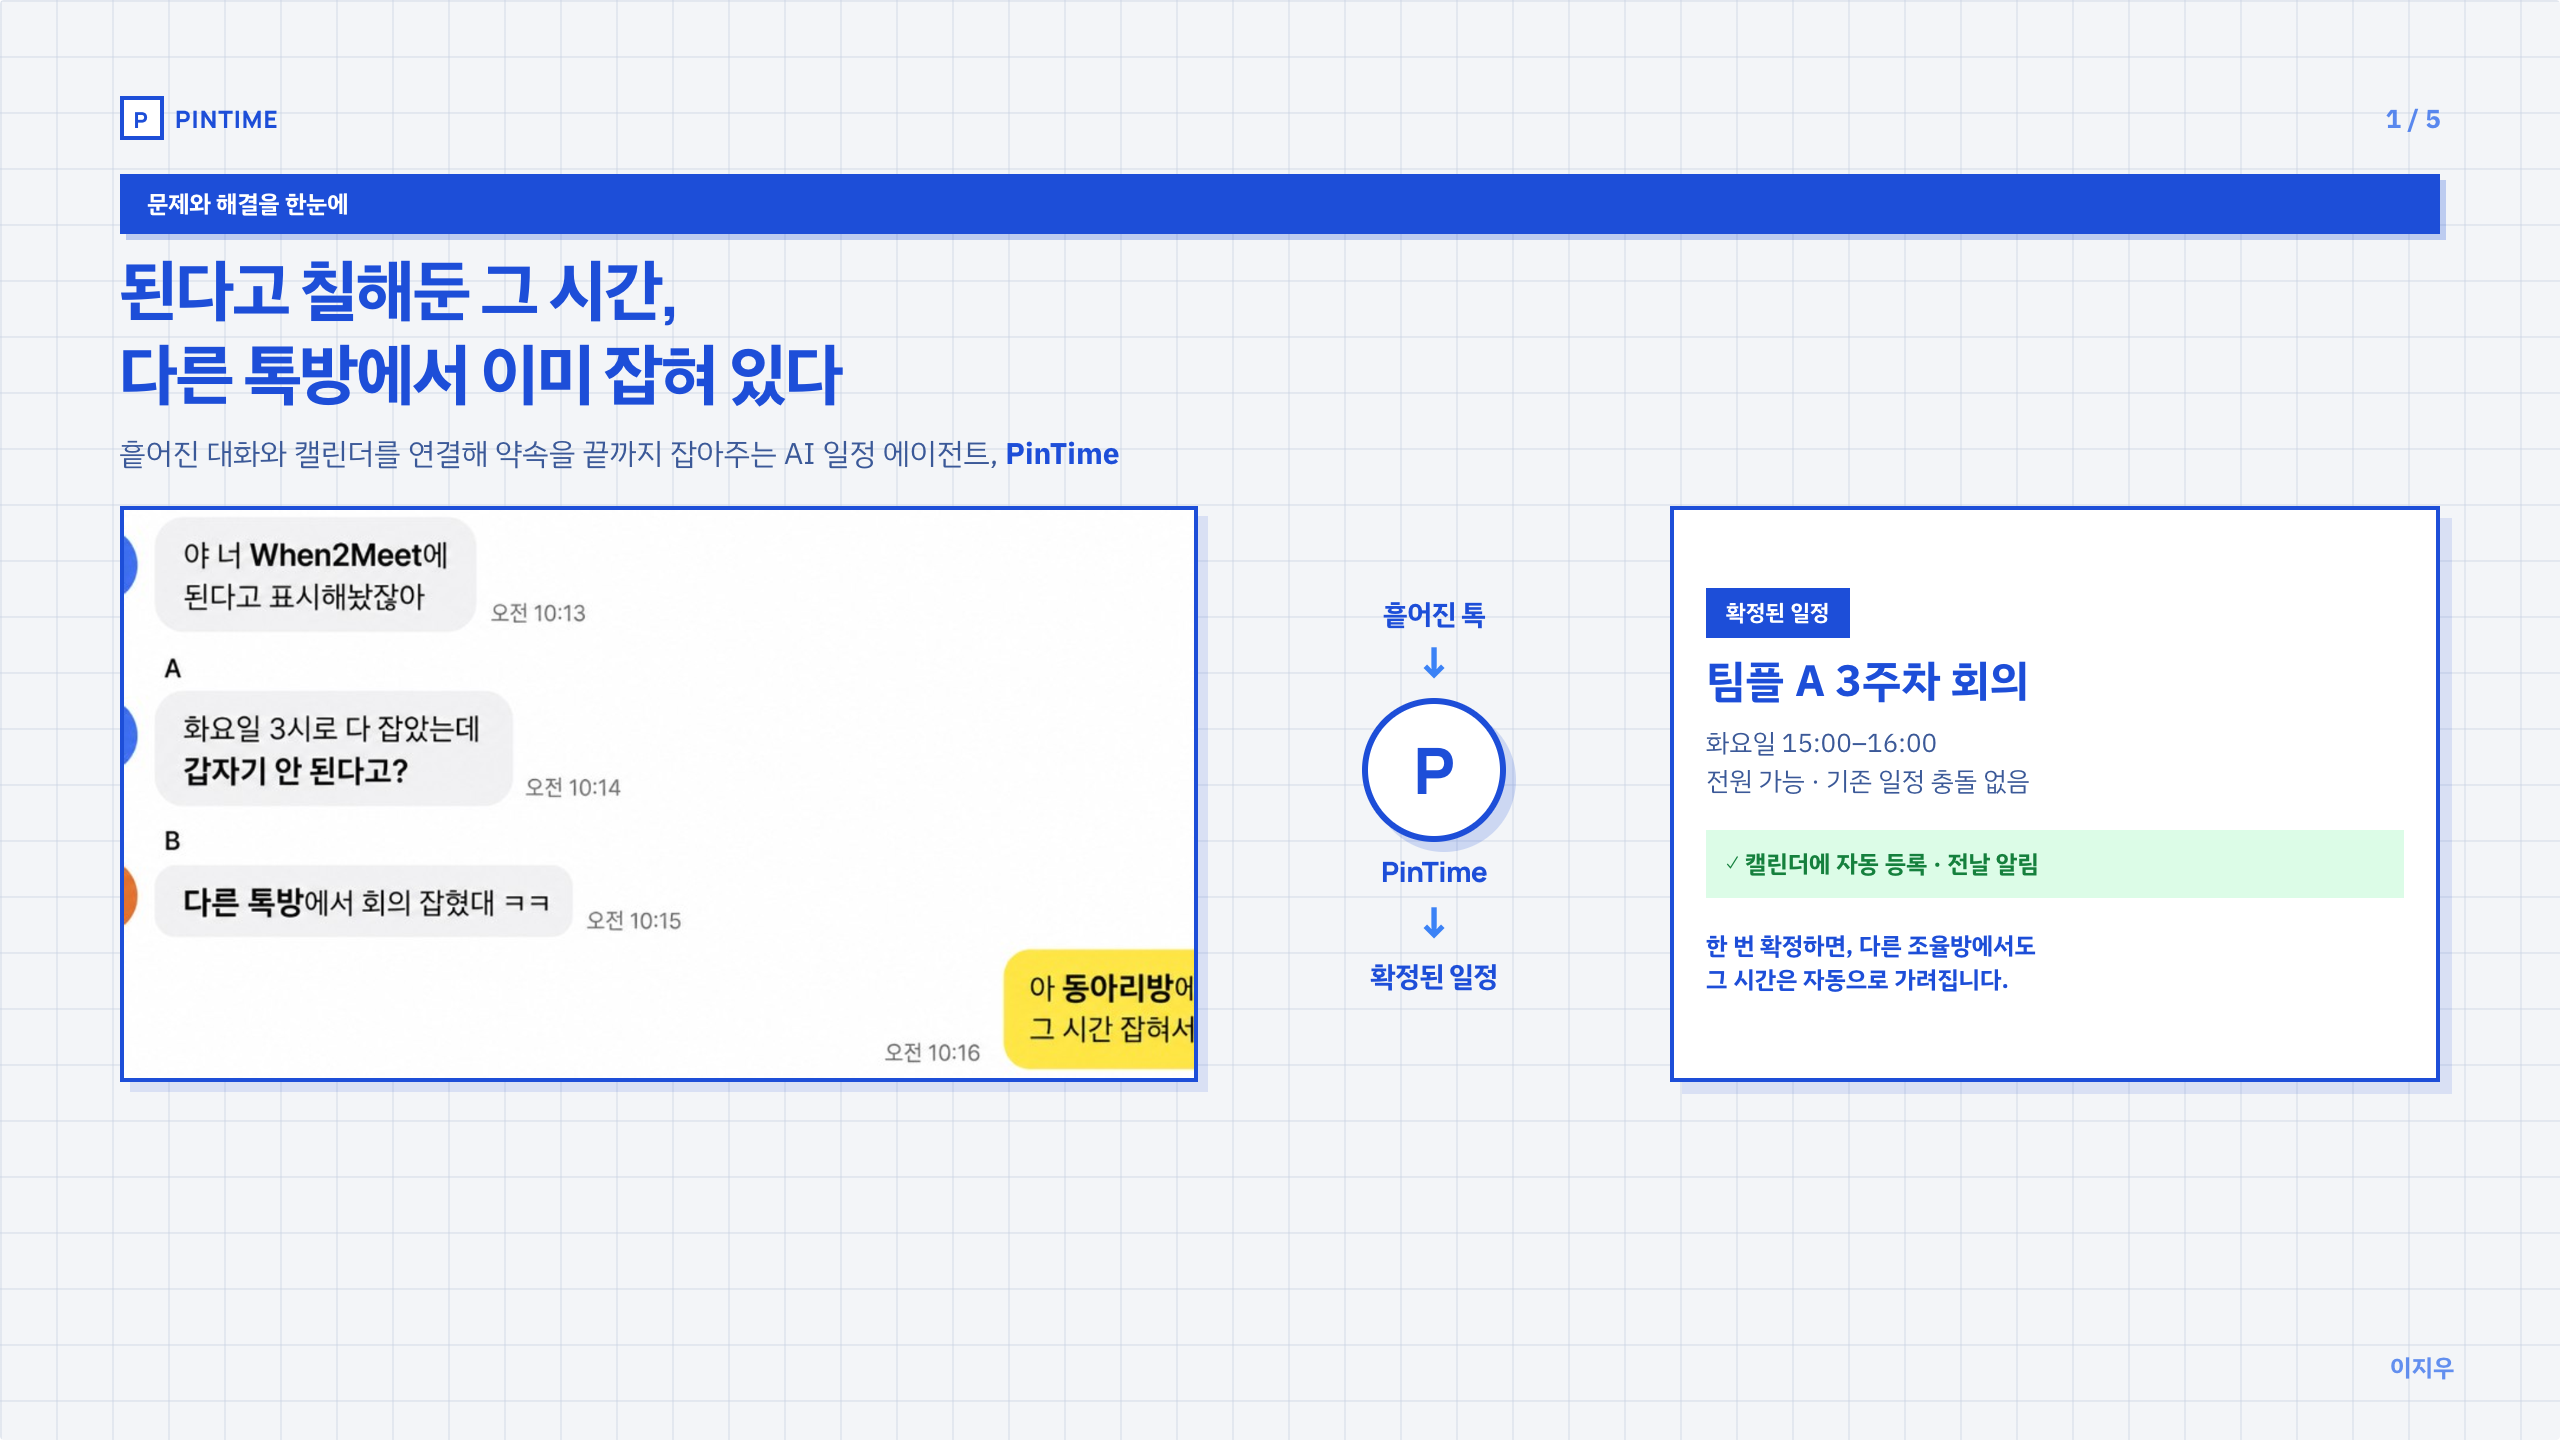
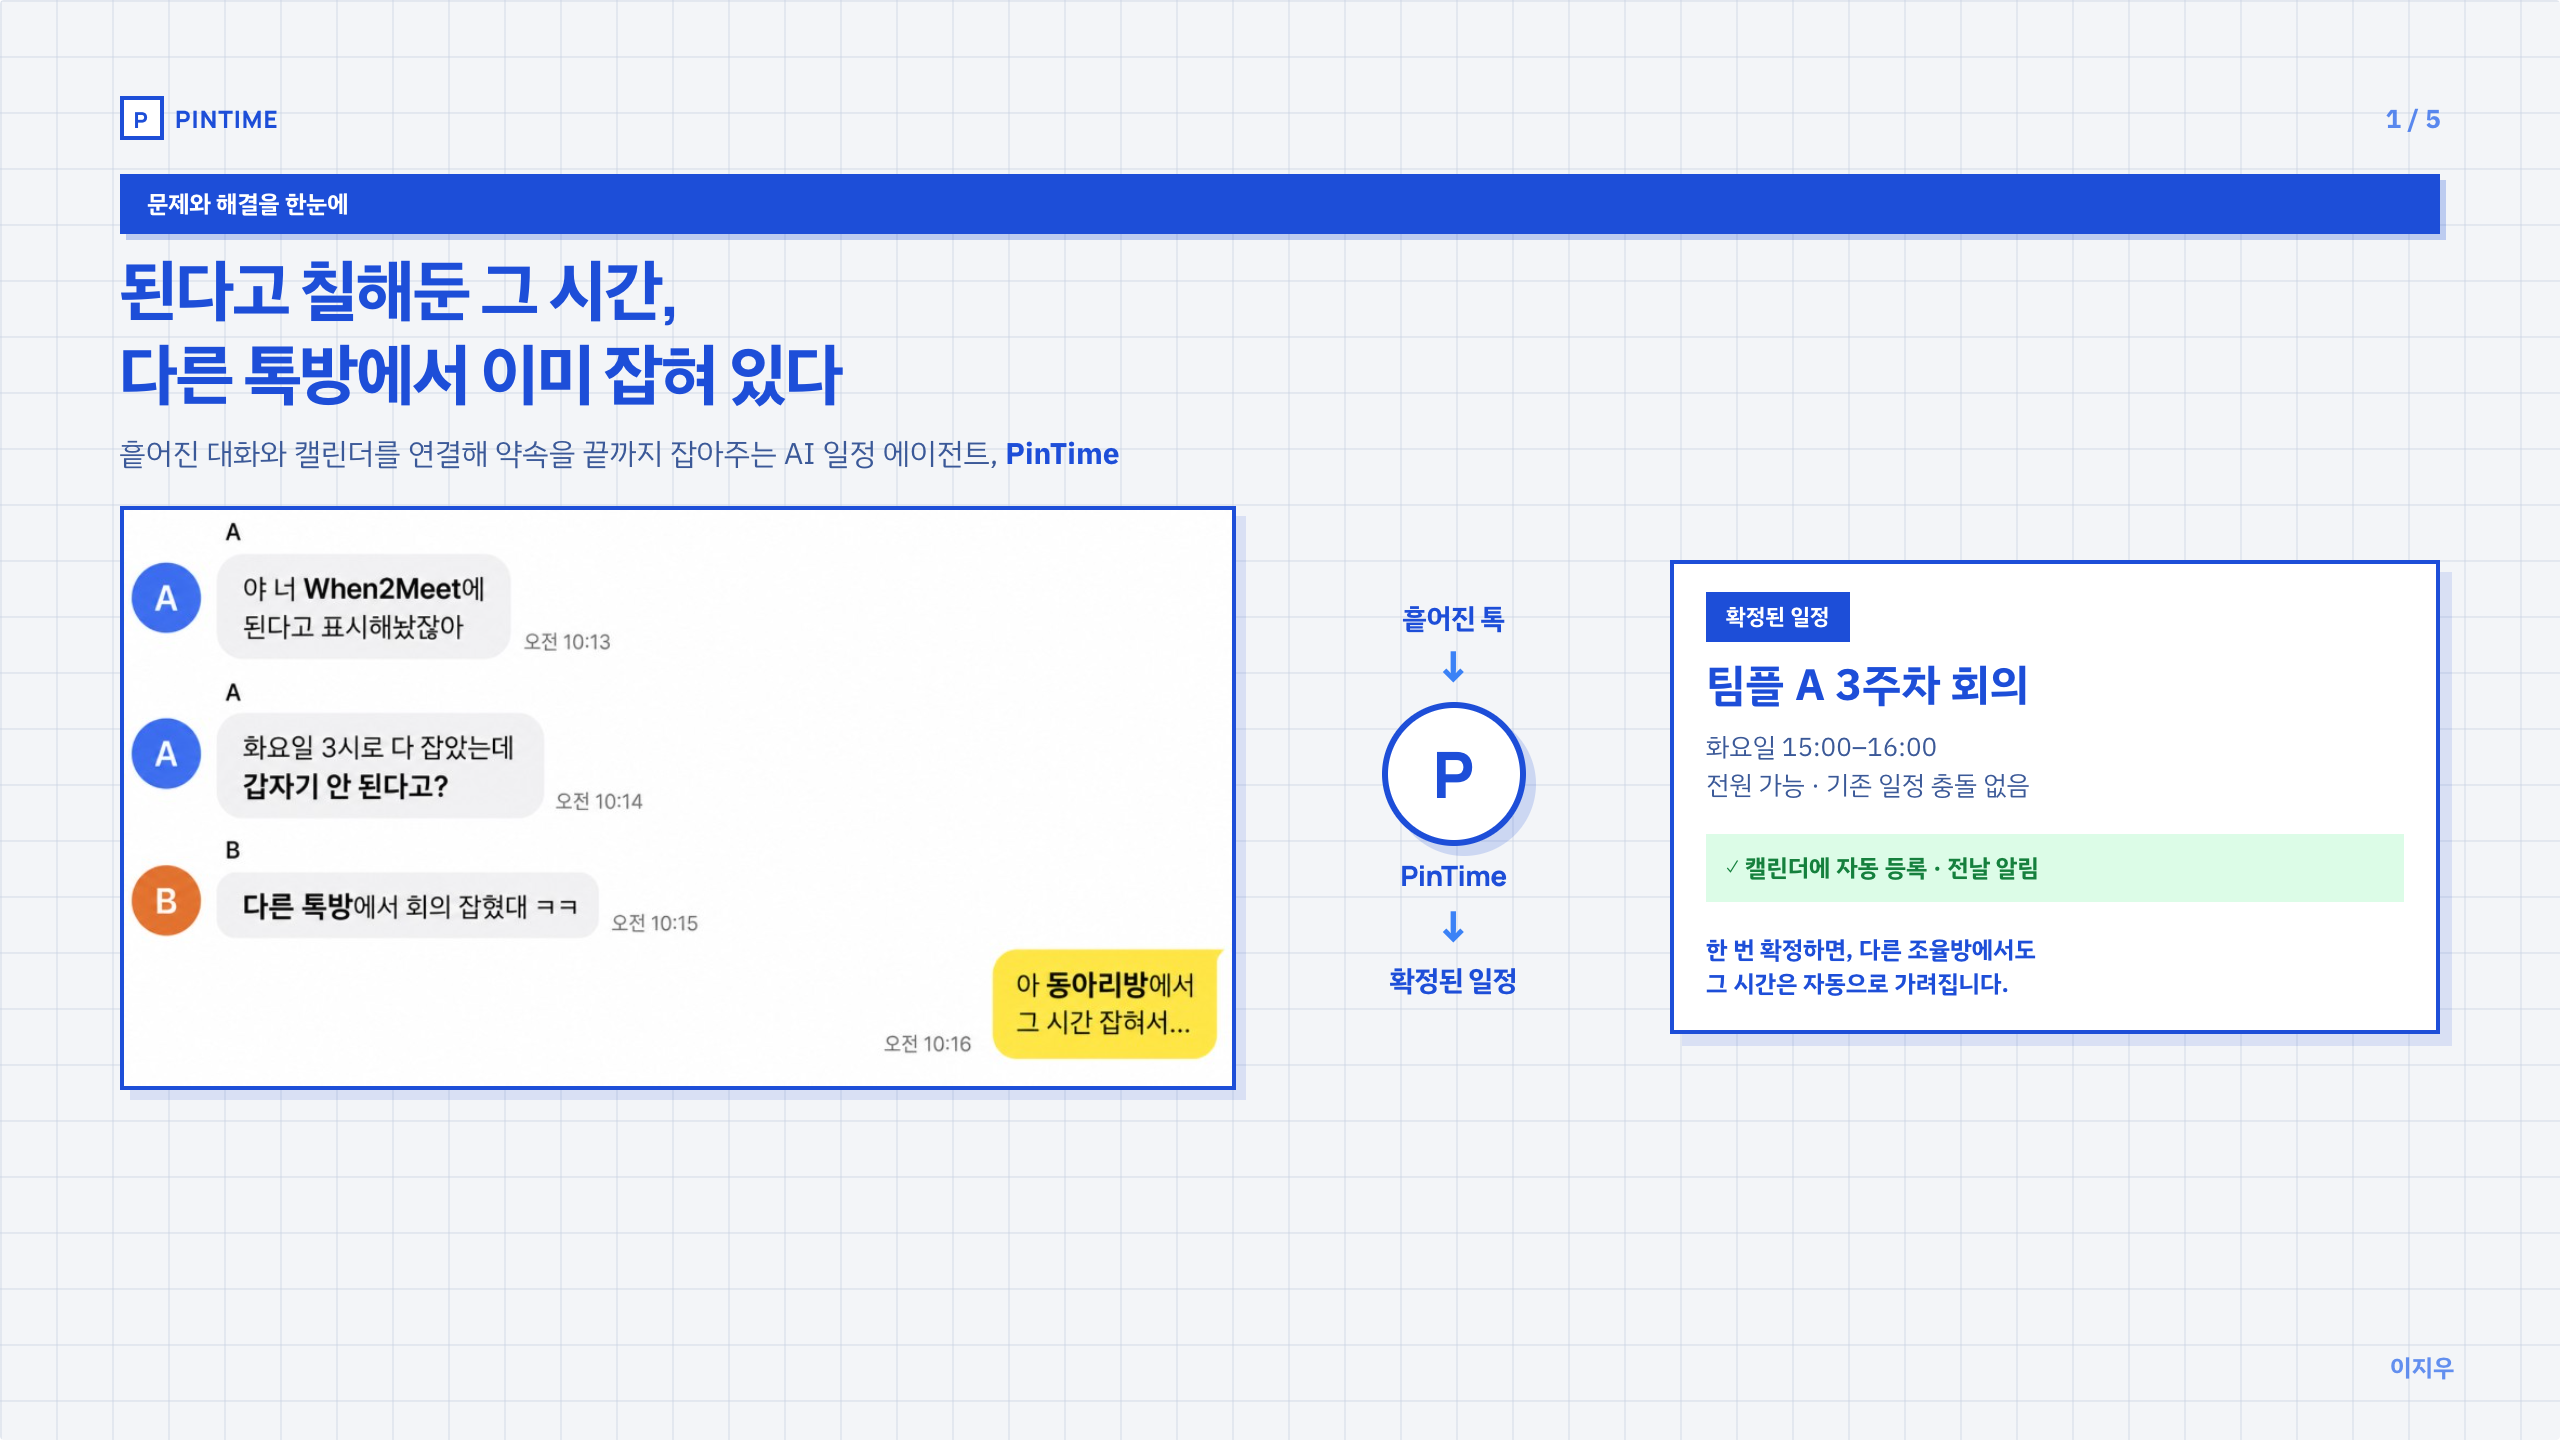
Show full original chat photo on pitch slide 1 without cropping.

diff --git a/public/pitch.html b/public/pitch.html
@@ -194,9 +194,9 @@
       /* —— 개편 레이아웃 —— */
       .hero-bridge {
         display: grid;
-        grid-template-columns: 1.4fr 0.55fr 1fr;
+        grid-template-columns: 1.45fr 0.5fr 1fr;
         gap: 12px;
-        align-items: stretch;
+        align-items: center;
         flex: 0 1 auto;
         min-height: 0;
         margin-top: 14px;
@@ -243,14 +243,19 @@
         background: #fff;
         border: 2.5px solid var(--blue);
         box-shadow: 5px 5px 0 rgba(29, 78, 216, 0.12);
-        overflow: hidden;
+        overflow: visible;
         padding: 0;
         width: 100%;
+        height: auto;
         line-height: 0;
+        align-self: center;
       }
       .hero-chat img {
         width: 100%;
         height: auto;
+        max-height: none;
+        object-fit: contain;
+        object-position: center;
         display: block;
       }
       .mini-kakao {
